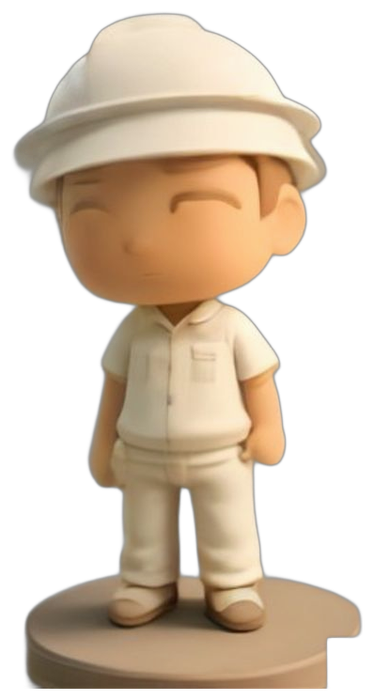
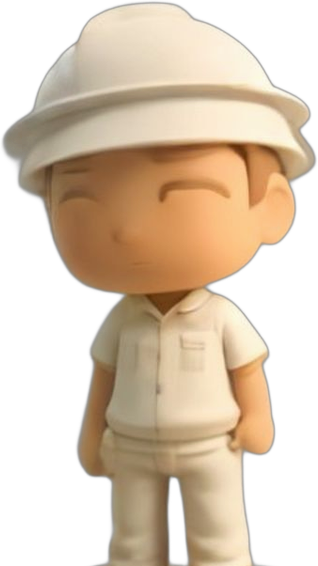
Character picks (era-correct), pedestal stripping fallback, Gambia narration typo, Wakhan Great Game scene, transition SFX
Claude-Session: https://claude.ai/code/session_01A7kBZ5McqnH8K751FsrWNR

diff --git a/tools/authoring/batch1.py b/tools/authoring/batch1.py
@@ -235,7 +235,7 @@ save('gambia', meta(
             hl(SEN, 'flag:sn', 'Senegal', fillOpacity=0.85), ping(13.45, -16.58, 'coast', color='#5ec8ff')],
           cam=fit(SEN, pad=0.9),
           src=[src('Senegal surrounds it except for its Atlantic coast.', 'The_Gambia', 'Senegal completely surrounds the country except for "the western part, which is bordered by the Atlantic Ocean."')]),
-        S("With just 11,300 square kilometers, it's it's about 320 kilometers long, but only 10 to 50 kilometers wide.", [
+        S("With just 11,300 square kilometers, it's about 320 kilometers long, but only 10 to 50 kilometers wide.", [
             meas((13.3, -16.8), (13.3, -13.8), '320 km', '320'), cnt('10–50 km', 'wide', size=150)],
           cam=fit(GMB, pad=0.8),
           src=[src('Area 11,300 km²; about 320 km long and 10–50 km wide.', 'The_Gambia', 'with an area of 11,300 square kilometers ... approximately 320 km in length but only 10-50 km wide')]),

diff --git a/tools/strip_pedestal.py b/tools/strip_pedestal.py
@@ -24,9 +24,21 @@ def pedestal_row(img):
     while y > h * 0.8 and (spans[y] == 0 or spans[y] > legs * 1.3):
         y -= 1
     base = h - 1 - y
-    if base < h * 0.025 or base > h * 0.2:
-        return None
-    return y + 1
+    if h * 0.025 <= base <= h * 0.2:
+        return y + 1
+    # fallback: a flat disc as wide as the figure; walk up until the rows get clearly narrower
+    yb = h - 1
+    while yb > 0 and spans[yb] == 0:
+        yb -= 1
+    lo = int(h * 0.82)
+    y = lo + int(np.argmax(spans[lo:]))
+    bottom = spans[y]
+    while y > h * 0.75 and spans[y] >= bottom * 0.72:
+        y -= 1
+    base = yb - y
+    if h * 0.03 <= base <= h * 0.2 and spans[max(0, y - 12)] < bottom * 0.62:
+        return y + 1
+    return None
 
 
 def main(paths, dry):
